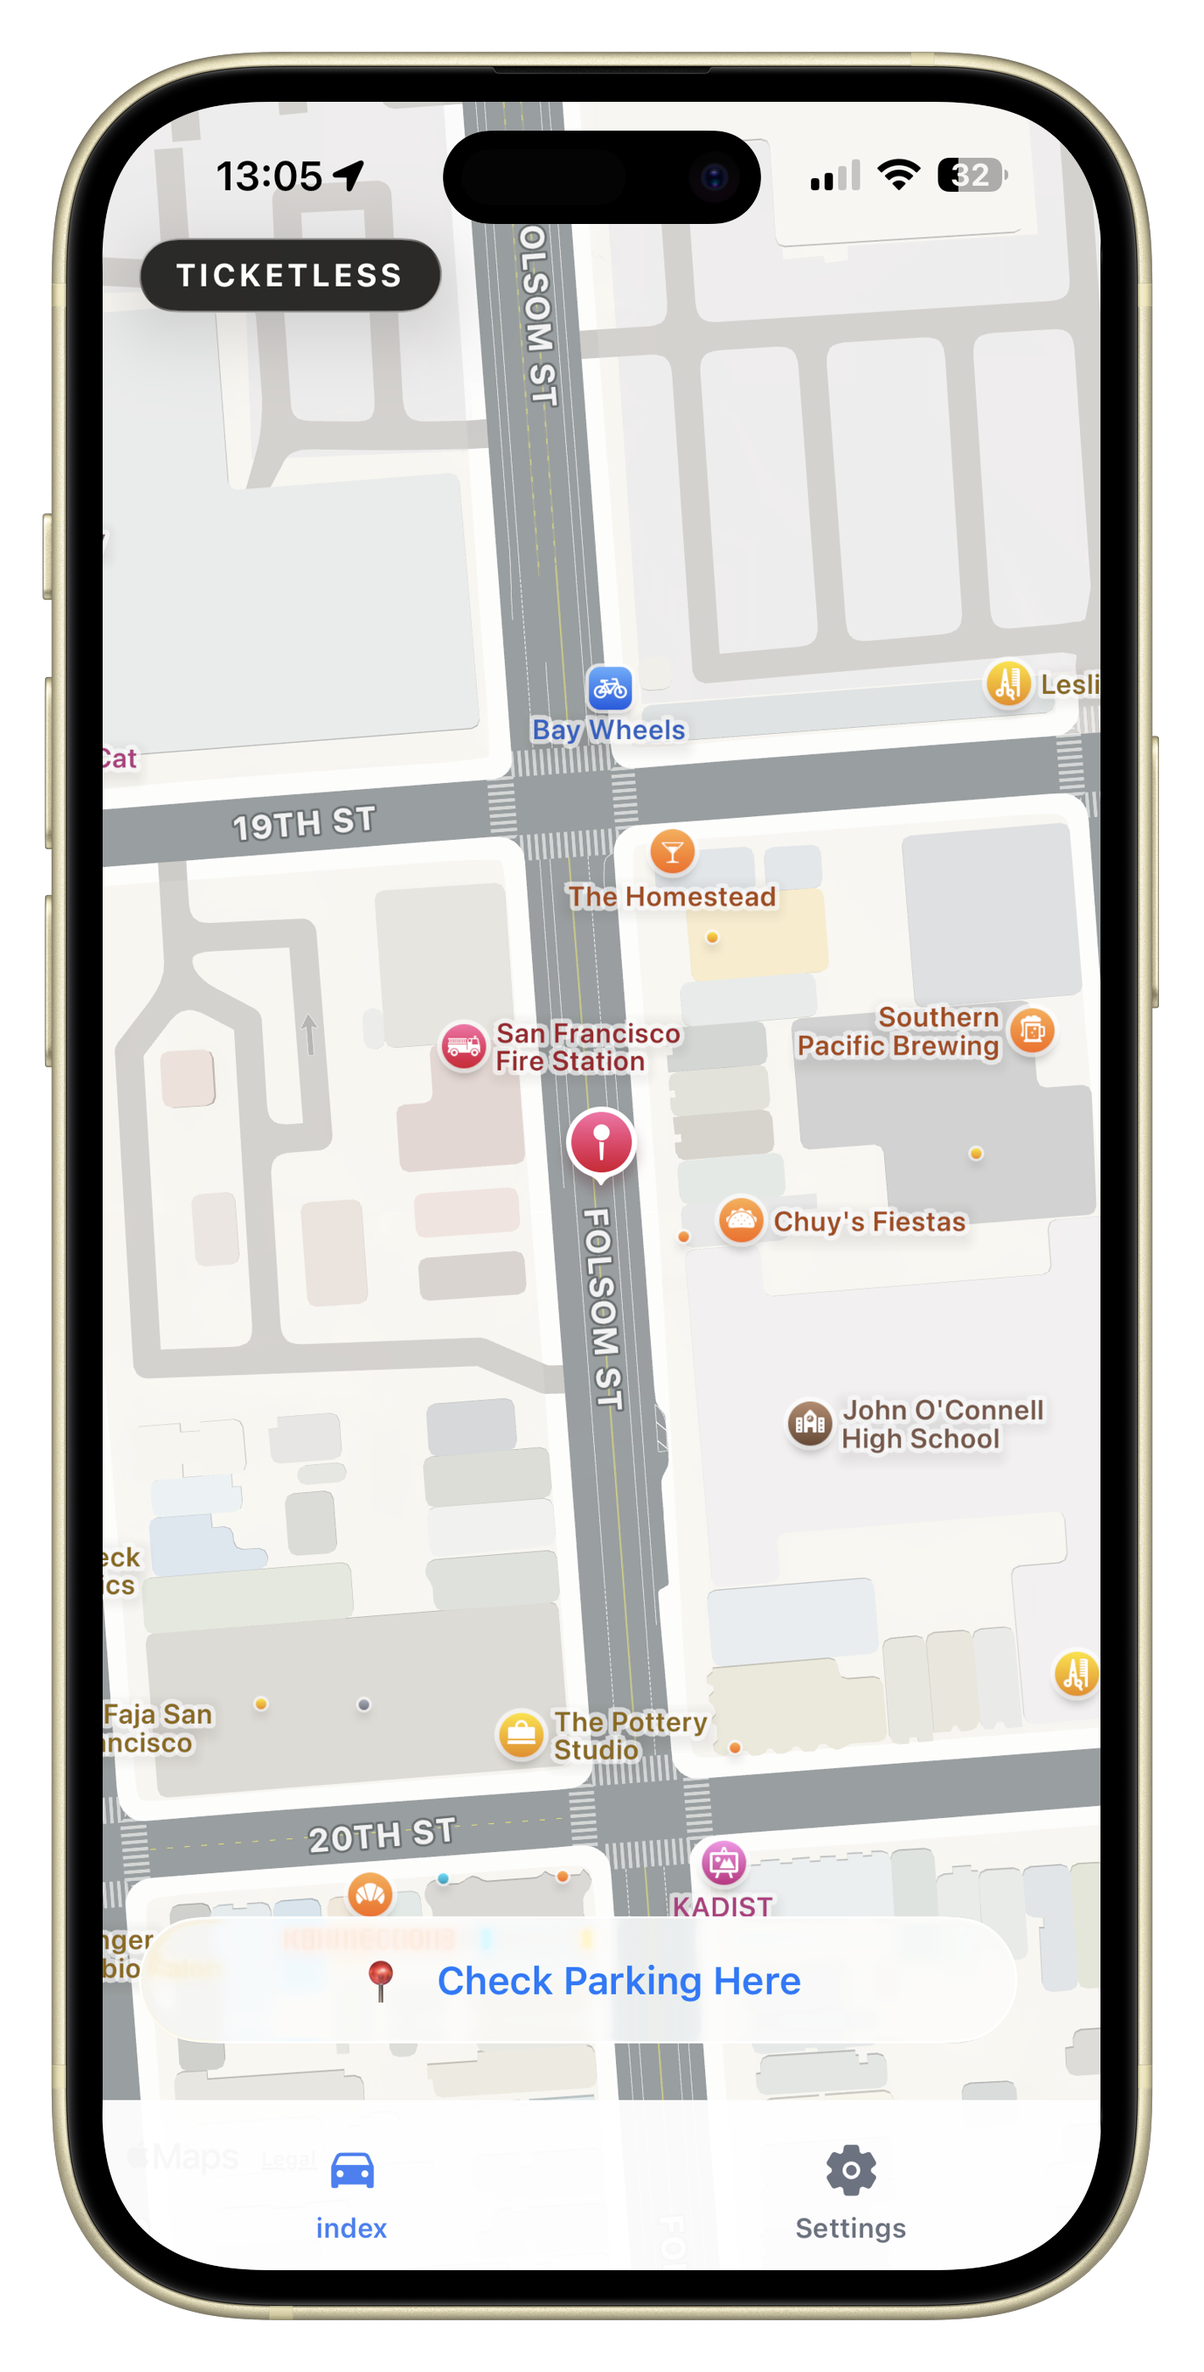
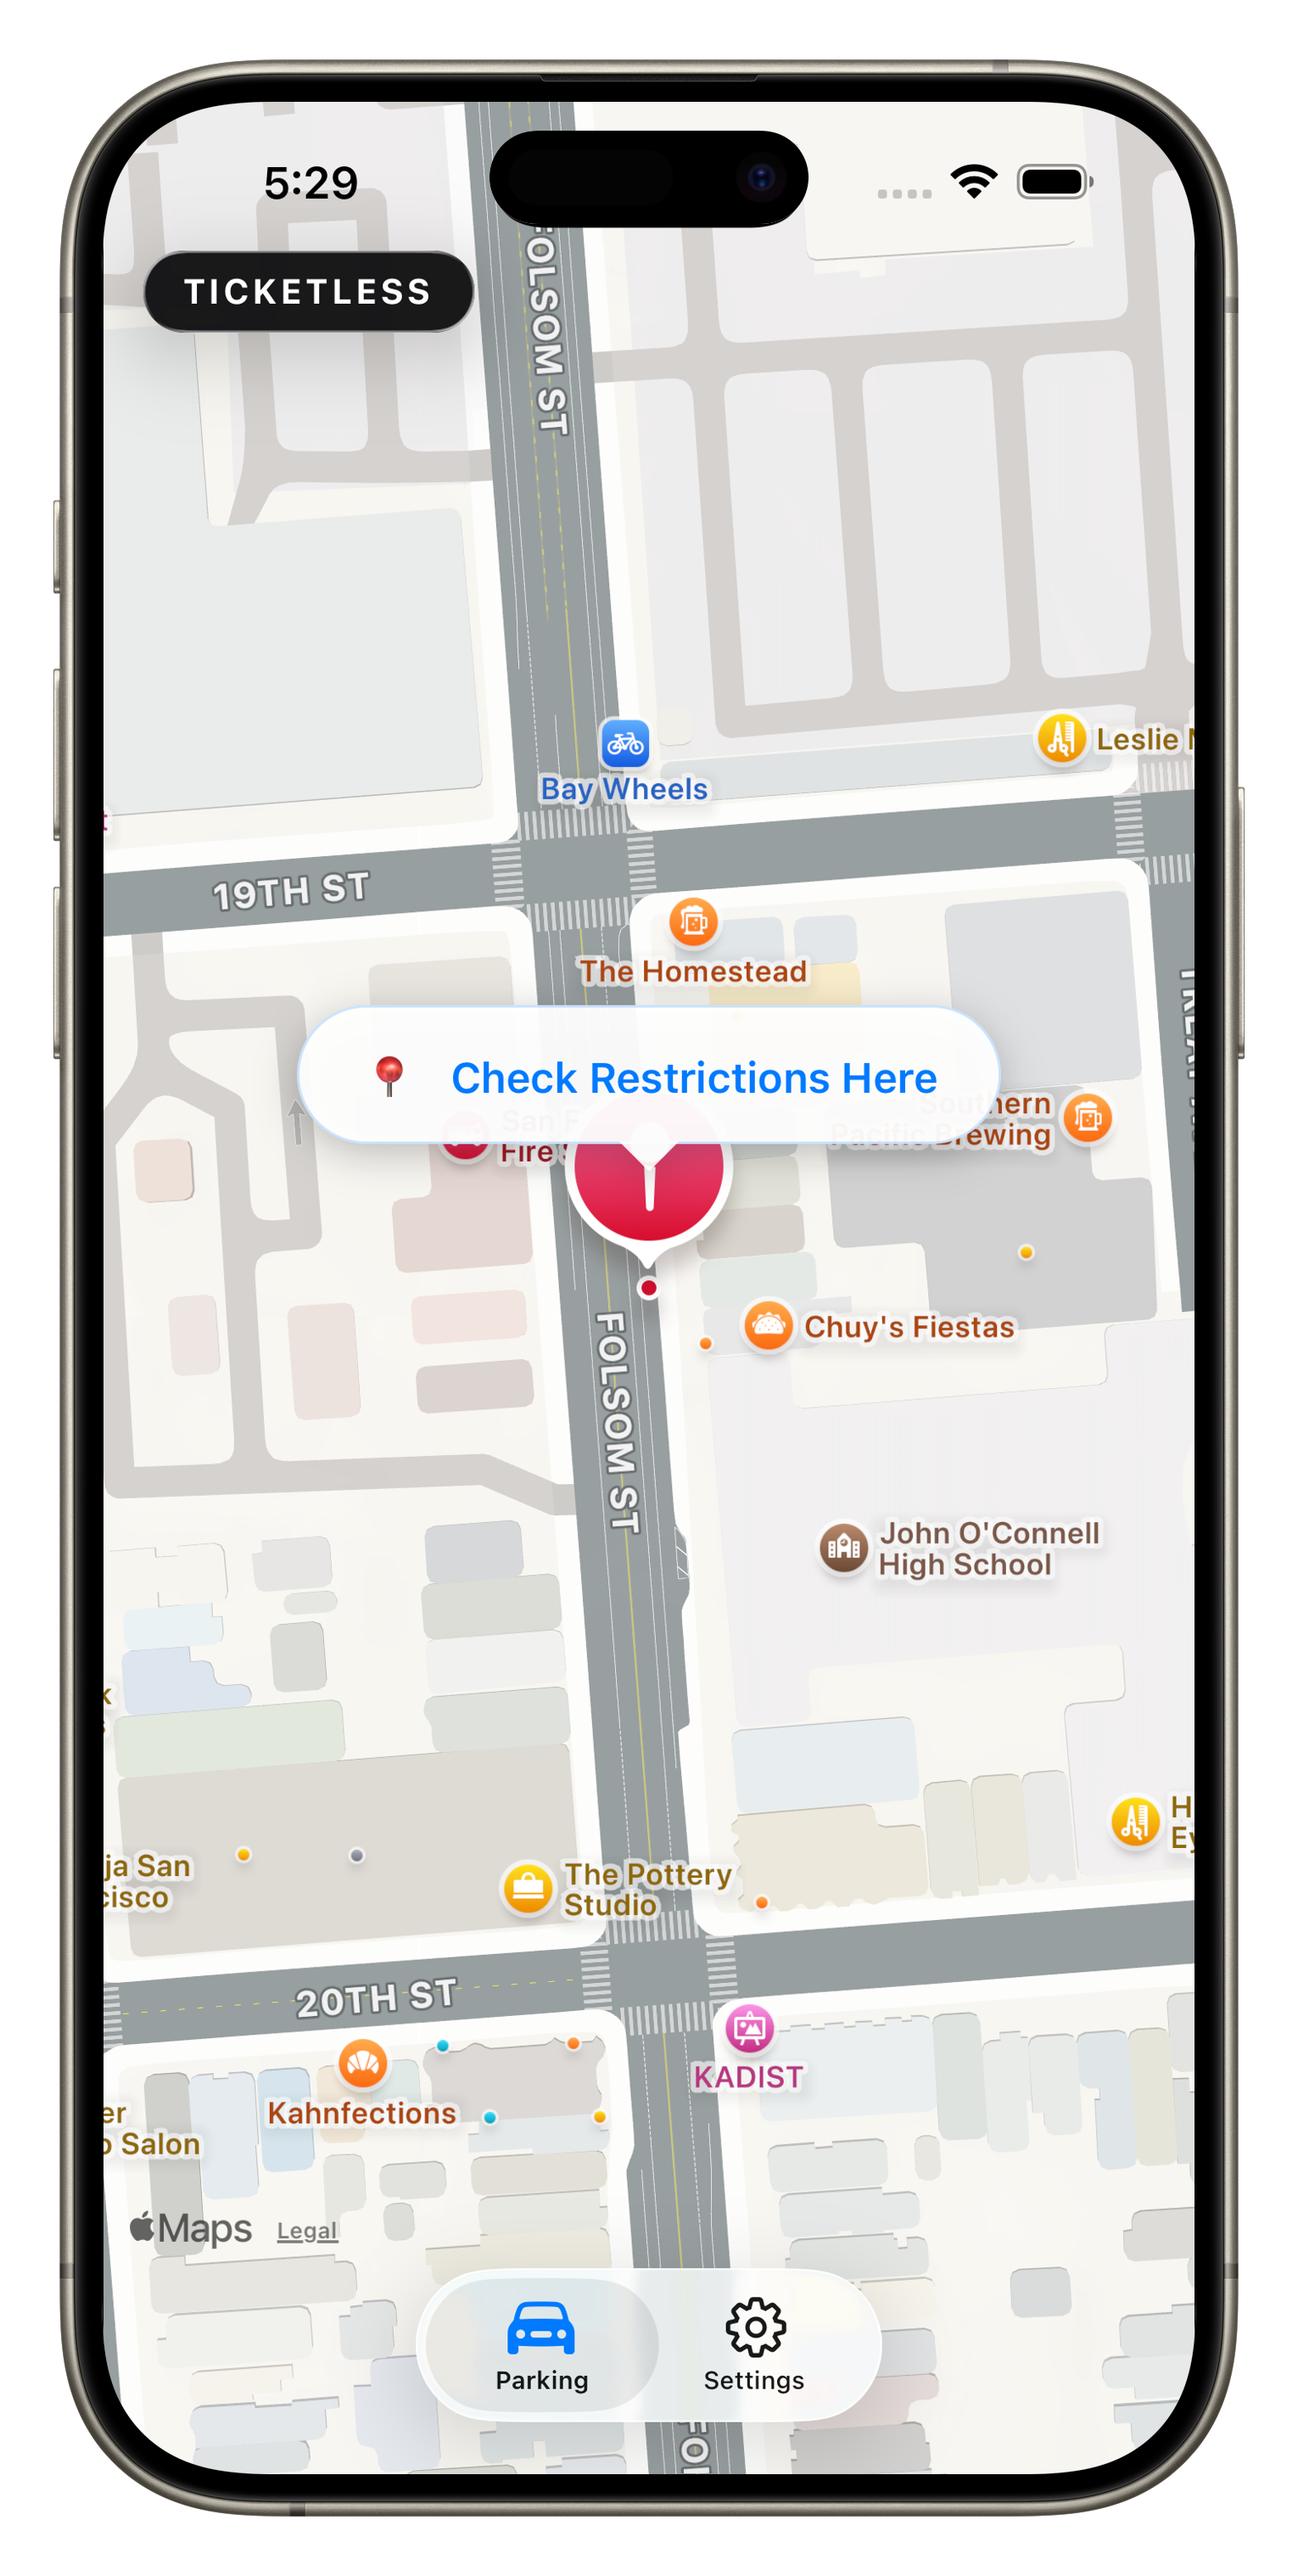
update screenshots

diff --git a/app/components/mobile-carousel.tsx b/app/components/mobile-carousel.tsx
@@ -1,11 +1,15 @@
 const mobileImages = [
   {
     src: "/mobile-screenshots/app-screen-1.png",
-    alt: "TICKETLESS app screen showing parking detection feature"
+    alt: "TICKETLESS app screen landing page"
   },
   {
     src: "/mobile-screenshots/app-screen-3.png",
     alt: "TICKETLESS app screen showing parking restrictions"
+  },
+  {
+    src: "/mobile-screenshots/app-screen-4.png",
+    alt: "TICKETLESS app screen showing settings"
   }
 ]
 
@@ -22,10 +26,10 @@ export function MobileCarousel() {
           </p>
         </div>
 
-        {/* Images displayed side by side */}
-        <div className="grid grid-cols-1 md:grid-cols-2 gap-8 items-center justify-items-center">
+        {/* Images displayed side by side on desktop, stacked on mobile */}
+        <div className="grid grid-cols-1 md:grid-cols-3 gap-6 md:gap-8 lg:gap-12 items-start justify-items-center">
           {mobileImages.map((image, index) => (
-            <div key={index} className="w-full max-w-sm">
+            <div key={index} className="w-full max-w-xs">
               <img
                 src={image.src}
                 alt={image.alt}

diff --git a/src/components/footer.tsx b/src/components/footer.tsx
@@ -22,7 +22,7 @@ export function Footer() {
 
         <div className="mt-8 pt-8 border-t border-border text-center text-sm text-muted-foreground">
           <p className="mb-4 font-semibold text-foreground">
-            <strong>IMPORTANT DISCLAIMER:</strong> All information provided by Ticketless is for estimation purposes only and does not replace official street signs or parking regulations. Ticketless and its creators assume no liability for parking tickets, violations, or any damages resulting from the use of this service.
+            <strong>IMPORTANT DISCLAIMER:</strong> All information provided by Ticketless is for estimation purposes only and does not replace official street signs or parking regulations. Ticketless and its creator assume no liability for parking tickets, violations, or any damages resulting from the use of this service.
           </p>
           <p>© 2025 TICKETLESS. Made with ❤ in San Francisco.</p>
         </div>

diff --git a/app/components/footer.tsx b/app/components/footer.tsx
@@ -17,7 +17,7 @@ export function Footer() {
 
         <div className="mt-8 pt-8 border-t border-border text-center text-sm text-muted-foreground">
           <p className="mb-4 font-semibold text-foreground">
-            <strong>IMPORTANT DISCLAIMER:</strong> All information provided by Ticketless is for estimation purposes only and does not replace official street signs or parking regulations. Ticketless and its creators assume no liability for parking tickets, violations, or any damages resulting from the use of this service.
+            <strong>IMPORTANT DISCLAIMER:</strong> All information provided by Ticketless is for estimation purposes only and does not replace official street signs or parking regulations. Ticketless and its creator assume no liability for parking tickets, violations, or any damages resulting from the use of this service.
           </p>
           <p>© 2025 TICKETLESS.</p>
         </div>

diff --git a/src/components/how-it-works.tsx b/src/components/how-it-works.tsx
@@ -42,7 +42,7 @@ const steps = [
     icon: MapPin,
     number: "02",
     title: "Park Anywhere in SF",
-    description: "The app detects when you park and checks local street-cleaning schedules.",
+    description: "The app detects when you park and checks local parking restrictions.",
   },
   {
     icon: Bell,
